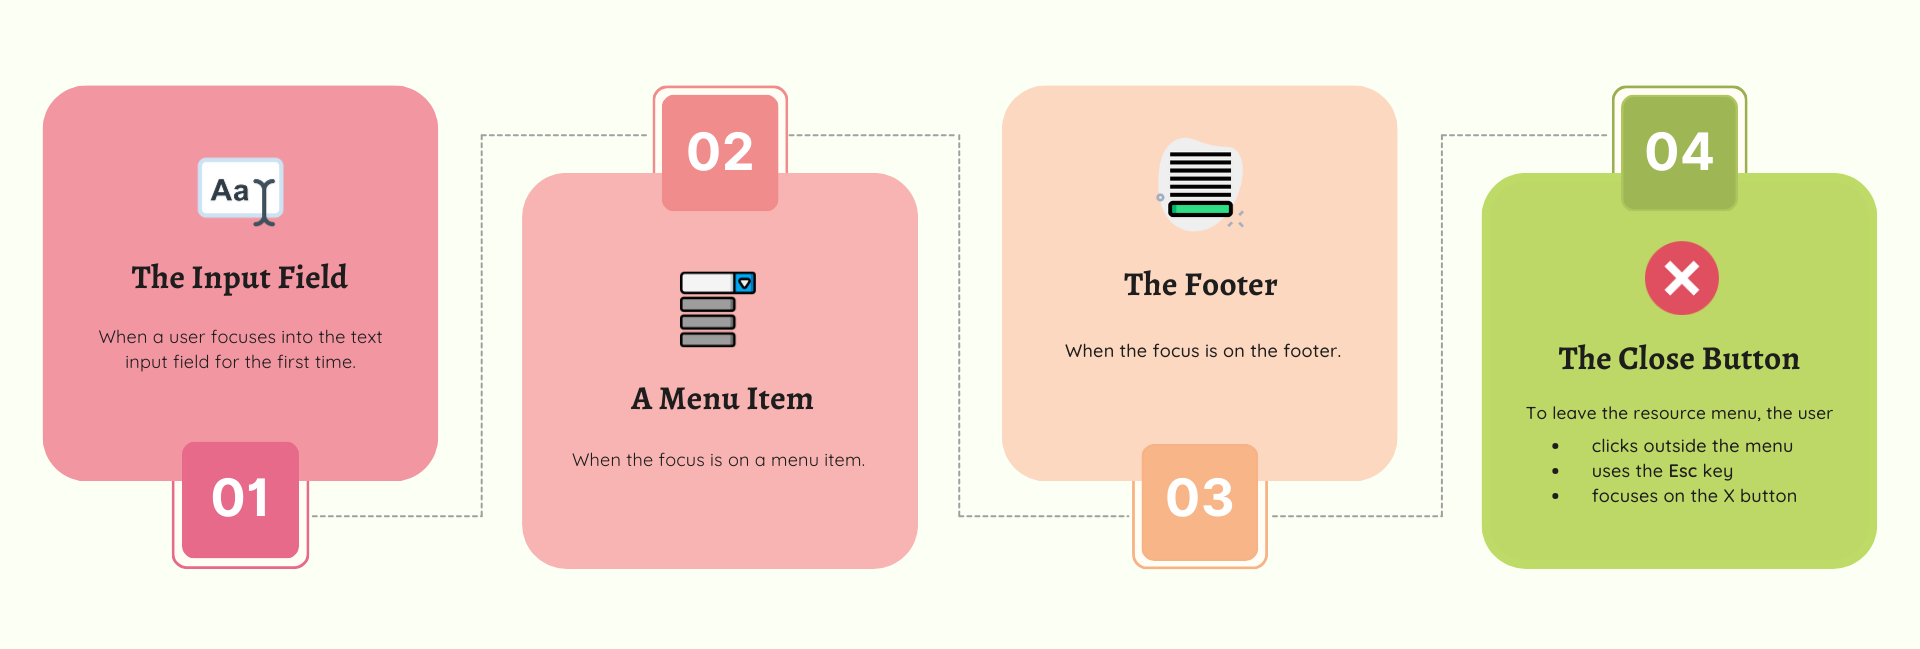
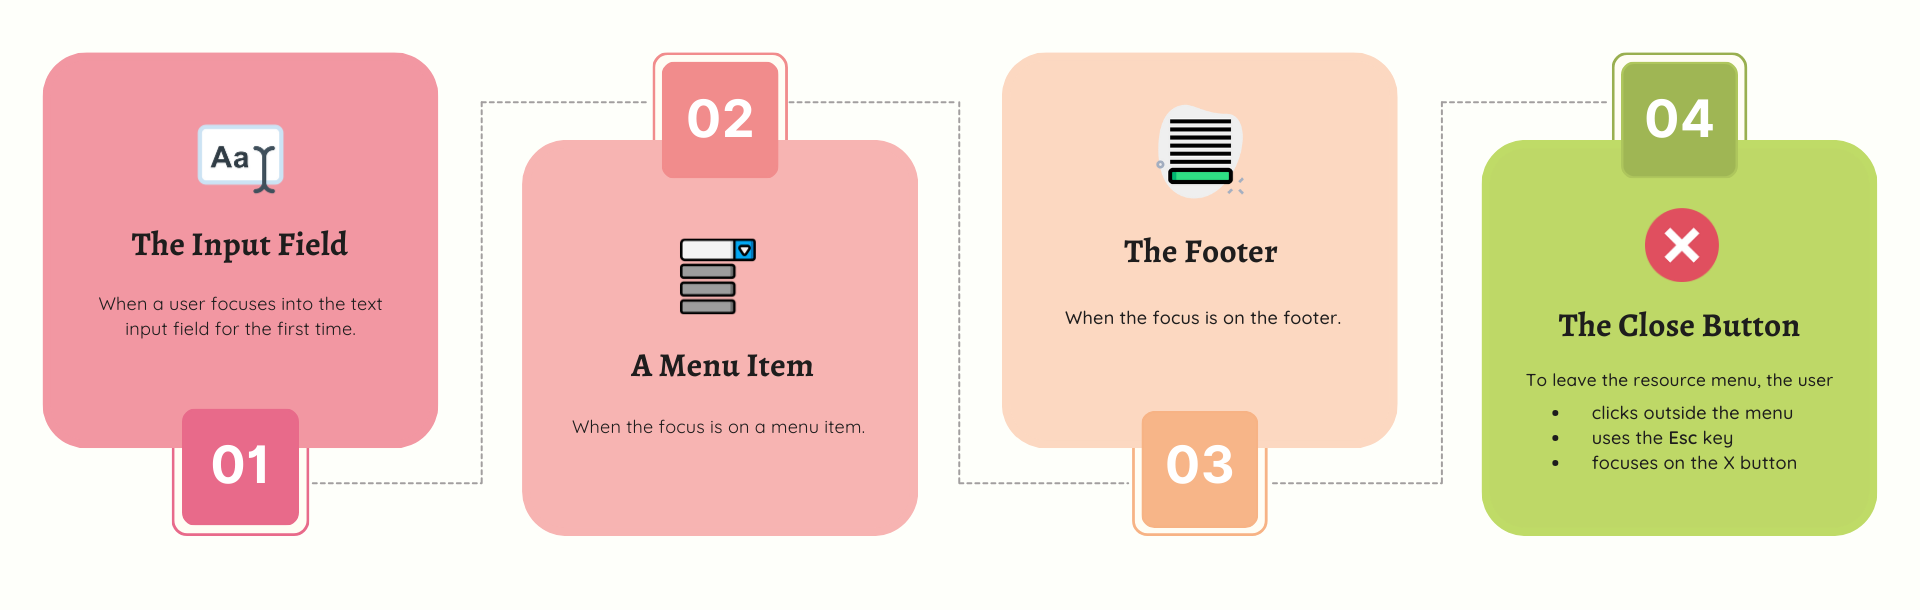
resource updates

diff --git a/salesforce-resource-selection.html b/salesforce-resource-selection.html
@@ -53,12 +53,12 @@
   <header>
     <div class="container-fluid landing filter-overlay row">
       <div class="landing-name">
-        <h1>Navigating the Resource Menu</h1>
+        <h1>Navigating Salesforce Flow Builder's Resource Menu</h1>
       </div>
       <div class="mainheader row justify-content-around">
         <div class="col-lg-12 justify-content-center">
           <h2>
-            <span>Upgrading keyboard navigation towards an improved resource selection experience.
+            <span>Ensuring comprehensive keyboard navigation towards an improved resource selection experience in the Salesforce Flow Builder.
             </span>
           </h2>
         </div>
@@ -76,7 +76,7 @@
         <h2>Introduction</h2>
       </br>
         <p>Flow Builder is the most powerful automation tool that any Salesforce user has at their disposal. It can be used to perform various tasks from sending an email and posting a message to performing mass updates across multiple unrelated records and performing complex logic. I joined this team in April 2022 and have since been working on releasing changes that aim to consistently improve user productivity and experience.</p>
-        <p class="highlight">Within a broader initiative aimed at an improved resource selection experience, this specific project sought to <span>guarantee keyboard accessibility</span> for the redesigned menu.</p>
+        <p class="highlight">Flow Builder's Resource Menu displays the resources that are available in the flow. Within a broader initiative aimed at an improved resource selection experience, this specific project sought to <span>guarantee keyboard accessibility</span> for the redesigned menu.</p>
         <p>The modifications were implemented in Java, Typescript, HTML, and CSS.
         </p>
 
@@ -92,7 +92,7 @@
           <li class="error-highlight"><span>Poor user experience</span>. Users found themselves lost after navigating into multi-layered menu items and struggled to backtrack their navigation.</li>
           <li class="error-highlight"><span>Inaccurate icons</span>. The icons for menu items were unclear, and at times, they didn't accurately represent the menu option.</li>
         </ul>
-       <p>This is where the revamped Resource Menu (v2) came in. It was intended to prioritize customer needs, and improve usability and user productivity.</p>
+       <p>This is where the revamped Resource Menu (v2) came in. This new design, provided by the UX team, was intended to prioritize customer needs, and improve usability and user productivity.</p>
        <p class="highlight">Initially, when I was tasked with integrating keyboard navigation for the resource menu, it was clear that the aim was to <span>preserve the keyboard navigation experience</span> akin to v1 for consistency. Yet, the interface of v1 differed from that of v2.</p>
        <p class="highlight">v1 didn't showcase a header or footer, nor did it have a distinct nested menu structure like v2. To ensure keyboard navigation was not only <span>compliant with accessibility standards</span> but also <span>tailored to typical Flow Builder user interactions</span>, every nuanced aspect of keyboard navigation had to be collaboratively addressed by the UX team, Product Managers, and Engineers.</p>
      </br>
@@ -133,7 +133,7 @@
       </div>
       <div class="focus-points">
         <div>
-          <h2 style="padding-top:20px;">Guaranteeing Keyboard Navigation</h2>
+          <h2 class="heading-padding padding-top">Guaranteeing Keyboard Navigation</h2>
           </br>
           <p>When I was first assigned the task to implement comprehensive keyboard navigation for the redesigned resource menu, I began researching web accessibility guidelines for menus. Specifically, I was recommended to refer to <a class="content-link" href="https://www.w3.org">World Wide Web Consortium (W3C)</a> for standards and guidelines I could use to apply to our redesigned resource menu.</p>
           </br>
@@ -149,19 +149,19 @@
       </div>
 
       <div class="overall-nav">
-        <h2>Delving Into Keyboard Navigation</h2>
+        <h2 class="heading-padding padding-top">Delving Into Keyboard Navigation</h2>
         </br>
         <p>With the help of the UX team, I documented and presented my findings using this diagram.</p>
-        <div class="row">
+        <div class="row justify-content-center">
           <img class="overall-nav-img padding-top-bottom" src="img/resource-selection/overall-menu-nav.jpg" alt="overall navigation">
         </div>
-        <p>The pink numbered lines represent the tabbing order and the pink dotted arrows represent up/down/left/right arrow key interactions.</p>
+        <p class="bold"><span>The pink numbered lines represent the tabbing order and the pink dotted arrows represent up/down/left/right arrow key interactions.</span></p>
       </br>
         <p>Let's see how I used this diagram to detail the four common focus scenarios.</p>
       </br>
       <div class="focus-point-1 short-padding-bottom padding-top">
-          <h2 class="heading-padding">The Input Field</h2>
-          </br>
+          <h4 class="heading-padding">Focus Point 1</h4>
+          <h3 class="heading-padding">The Input Field</h3>
           <div class="row">
             <div class="col-lg-8">
               <p>When the user focuses into the text input field for the first time:</p>
@@ -181,9 +181,9 @@
           </div>
         </div>
       </div>
-      <div class="focus-point-2 short-padding-bottom">
-        <h2 class="heading-padding padding-top">A Menu Item</h2>
-        </br>
+      <div class="focus-point-2 short-padding-bottom padding-top">
+        <h4 class="heading-padding">Focus Point 2</h4>
+        <h3 class="heading-padding">A Menu Item</h3>
         <div class="row">
           <div class="col-lg-8">
           <p>When the focus is on a menu item:</p>
@@ -201,8 +201,8 @@
       </div>
       </div>
       <div class="focus-point-3 short-padding-bottom padding-top">
-        <h2 class="heading-padding">The Footer</h2>
-        </br>
+        <h4 class="heading-padding">Focus Point 3</h4>
+        <h3 class="heading-padding">The Footer</h3>
         <div class="row">
           <div class="col-lg-8">
           <p>When the focus is on the footer:</p>
@@ -217,9 +217,9 @@
         </div>
       </div>
       </div>
-      <div class="focus-point-4 short-padding-bottom">
-        <h2 class="heading-padding padding-top">The Close Button</h2>
-        </br>
+      <div class="focus-point-4 short-padding-bottom padding-top">
+        <h4 class="heading-padding">Focus Point 4</h4>
+        <h3 class="heading-padding">The Close Button</h3>
         <p>To leave the resource menu, the user can click outside the menu, use the Esc key or click the X button. When this happens:</p>
         <ul class="focus-bulletpoints">
           <li>This will close the combo box, but the focus will remain on the input field.</li>
@@ -230,17 +230,17 @@
       </div>
       <div class="road-bump-eureka">
         <div class="tabbing-issue-text padding-top-bottom">
-          <h2 class="heading-padding">Yikes, road bump!</h2>
+          <h2 class="heading-padding">Yikes, tabbing road bump!</h2>
           </br>
           <p class="bold">In the v2 design that now included a header and footer, determining the <span>new tabbing order</span> was most essential.</p>
           </br>
-          <p class="highlight-blue">There were conflicting views on whether tabbing from the input field should move the focus to the menu item (as it does in v1) or to the ‘New Resource‘ option. The latter prioritized <span>user familiarity</span> while the former prioritized <span>adhering to 2.1 global keyboard accessibility standards</span>.</p>
+          <p class="highlight-blue">There were conflicting views on whether tabbing from the input field should move the focus to the menu item (as it does in v1) or to the ‘New Resource‘ option. The former prioritized <span>user familiarity</span> while the latter prioritized <span>adhering to 2.1 global keyboard accessibility standards</span>.</p>
           </br>
           <p>The UX team, Product Managers and engineers were in days-long discussions as both options were viable and there was no consensus on which one to prioritize.</p>
           </br>
           <p>As the weekend approached, everyone got the chance to take a break and stepped away from the conversation.</p>
         </div>
-        <div class="eureka padding-top-bottom">
+        <div class="eureka padding-top">
           <h2 class="heading-padding">Eureka!</h2>
           </br>
           <p>During my time in the software engineering field, people commonly told me this whenever I was stuck trying to solve a problem:</p>
@@ -258,9 +258,10 @@
       </div>
 
       <div class="results">
-        <h2 class="heading-padding">... annnnnd cut!</h2>
+        <h2 class="heading-padding padding-top">... annnnnd cut!</h2>
         </br>
         <p class="highlight">After nearly a year of dedicated effort by my team, the revamped selection experience not only met but exceeded our customer's expectations. We introduced a redesigned resource menu that <span>significantly improved user experience</span> and <span>underscored the importance of accessibility</span>. Besides boasting keyboard compatibility, the menu had more intuitive icons, helpful tooltips for each item accessible by keyboard shortcuts, and clickable breadcrumbs for streamlined navigation.</p>
+        </br>
         <p>While the updates to keyboard navigation weren't explicitly highlighted, numerous independent and mainstream articles sang praises for the newly-designed selection experience.</p>
         </br>
         <div class="row">

diff --git a/css/resource-selection.css b/css/resource-selection.css
@@ -35,7 +35,6 @@ header {
       background-repeat: no-repeat;
       background-attachment: scroll;
     }
-
 }
 
 .mainheader {
@@ -95,7 +94,7 @@ header {
       flex-direction: column;
       justify-content: center;
       margin: auto;
-      height: 480px;
+      height: 600px;
     }
 }
 
@@ -205,6 +204,12 @@ a.nav-link:hover {
   font-family: Lato;
   font-weight: bolder;
   color: #333;
+}
+
+.solution h3 {
+  font-family: Lato;
+  font-size: 25px;
+  font-weight: 600;
 }
 
 .project-sub-summary .sub-header {
@@ -336,16 +341,16 @@ ul li {
   padding: 0;
 }
 
+.overall-nav h4 {
+  font-size: 20px;
+}
+
 ul.focus-bulletpoints {
   padding: 20px 80px;
 }
 
 h2.focus-points-header {
-  background-color: #FCFFF4;
-}
-
-.focus-point-1, .focus-point-3, .eureka {
-  background-color: #F4FDFF;
+  background-color: #FEFFFA;
 }
 
 .tabbing-issue-text {

diff --git a/css/style.css b/css/style.css
@@ -297,7 +297,7 @@ p.highlight-brown {
 }
 
 .section.proj {
-  padding: 40px 0 0 0;
+  padding-top: 20px;
   font-family: Quicksand;
   cursor: context-menu;
 }
